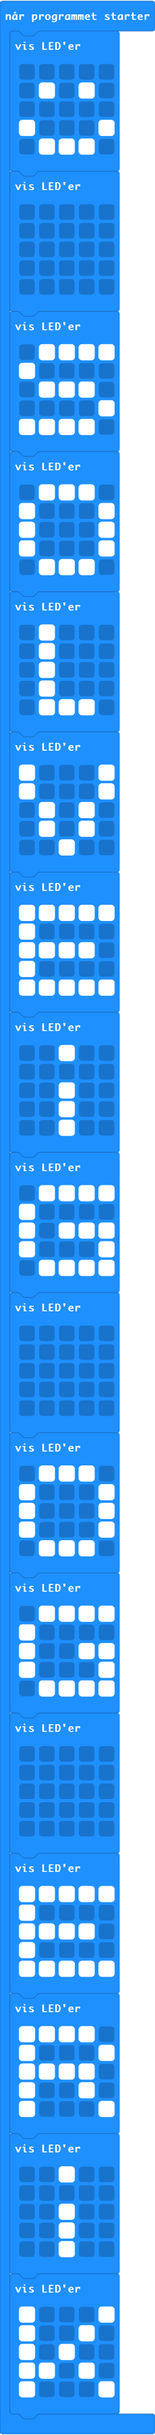
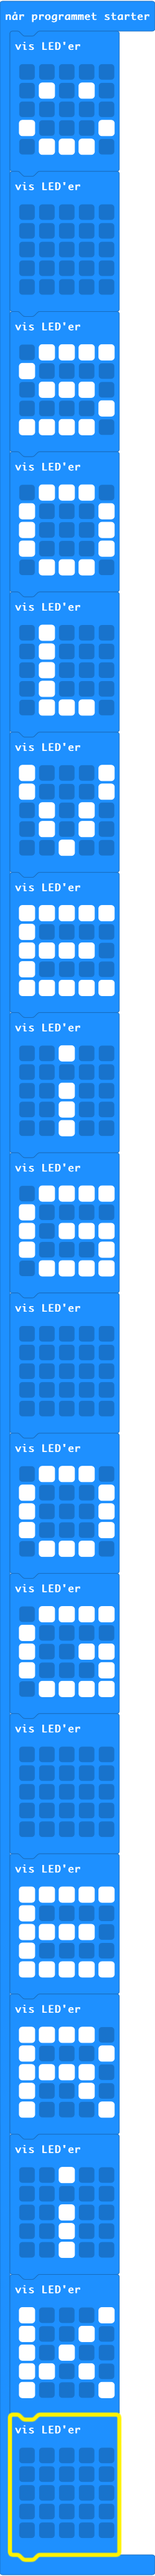
Opdater main.blocks, main.ts

diff --git a/main.ts b/main.ts
@@ -117,3 +117,10 @@ basic.showLeds(`
     # # . # .
     # . . . #
     `)
+basic.showLeds(`
+    . . . . .
+    . . . . .
+    . . . . .
+    . . . . .
+    . . . . .
+    `)
